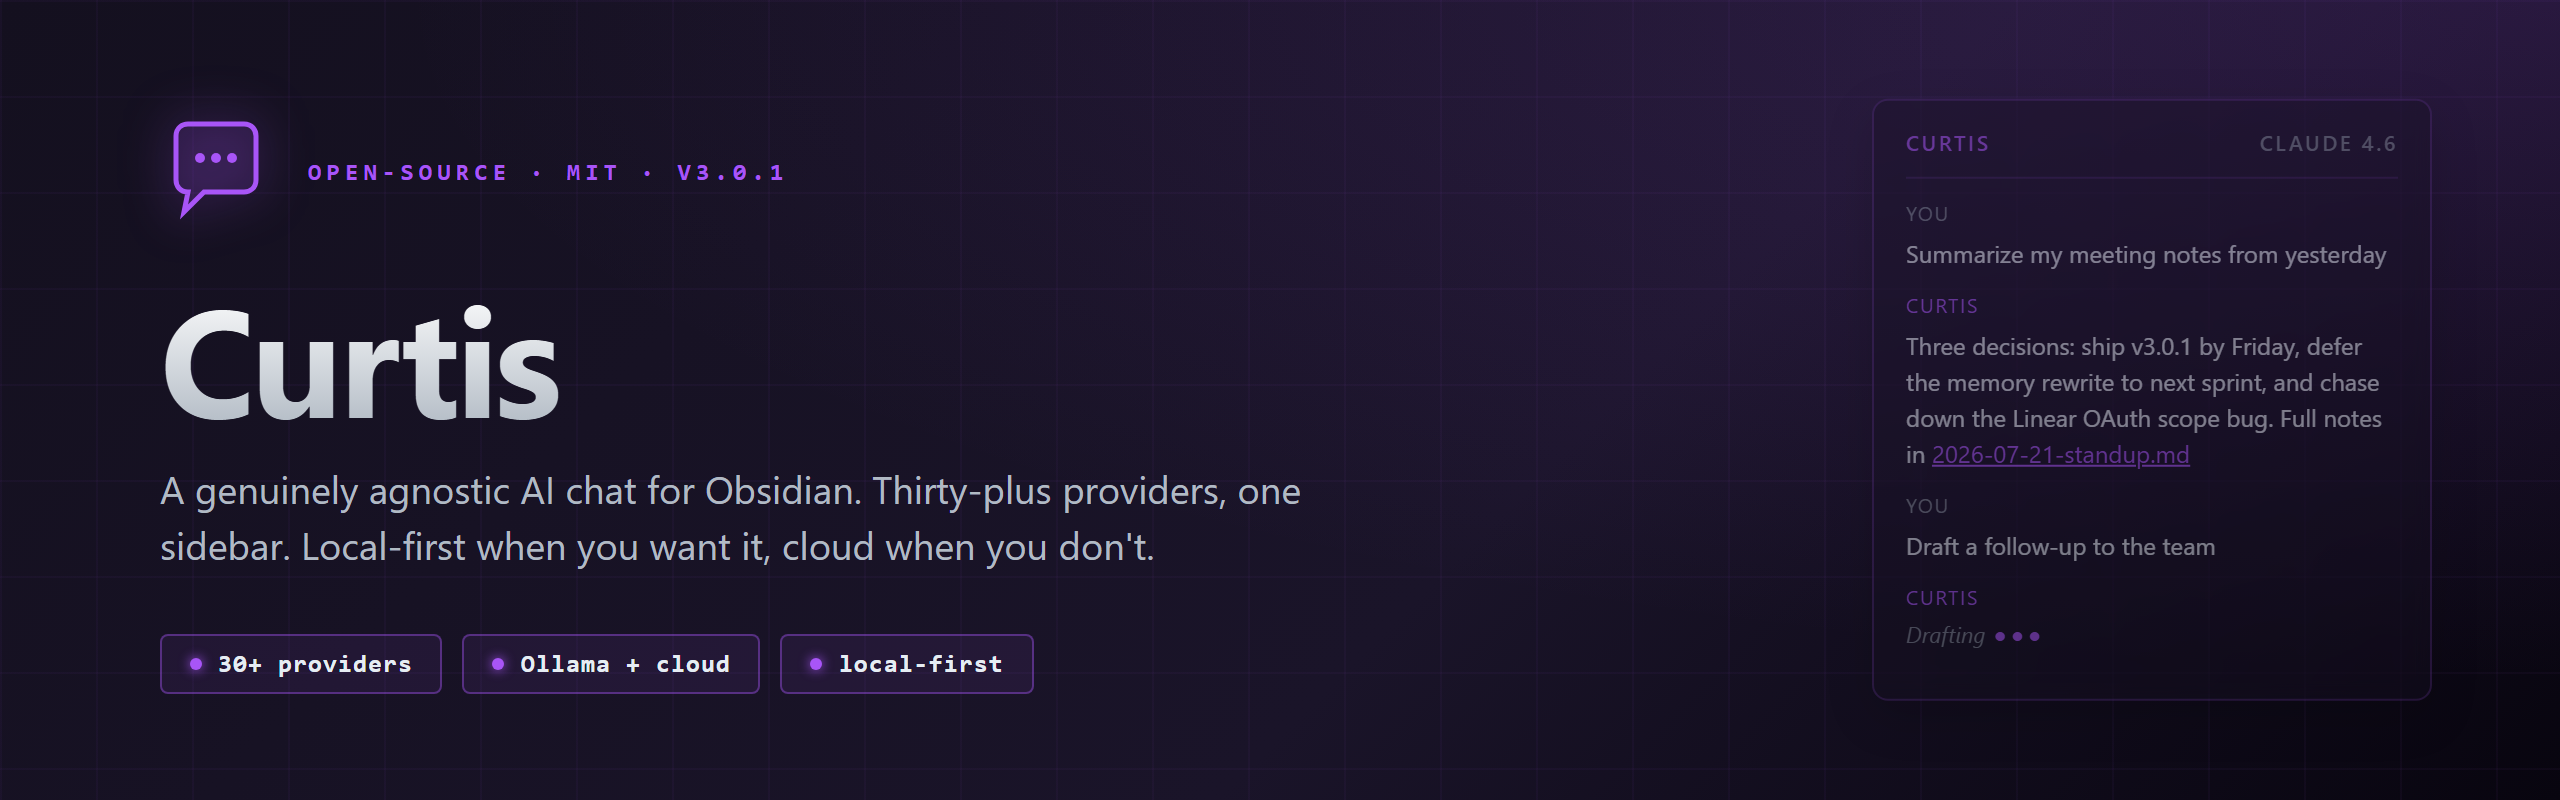
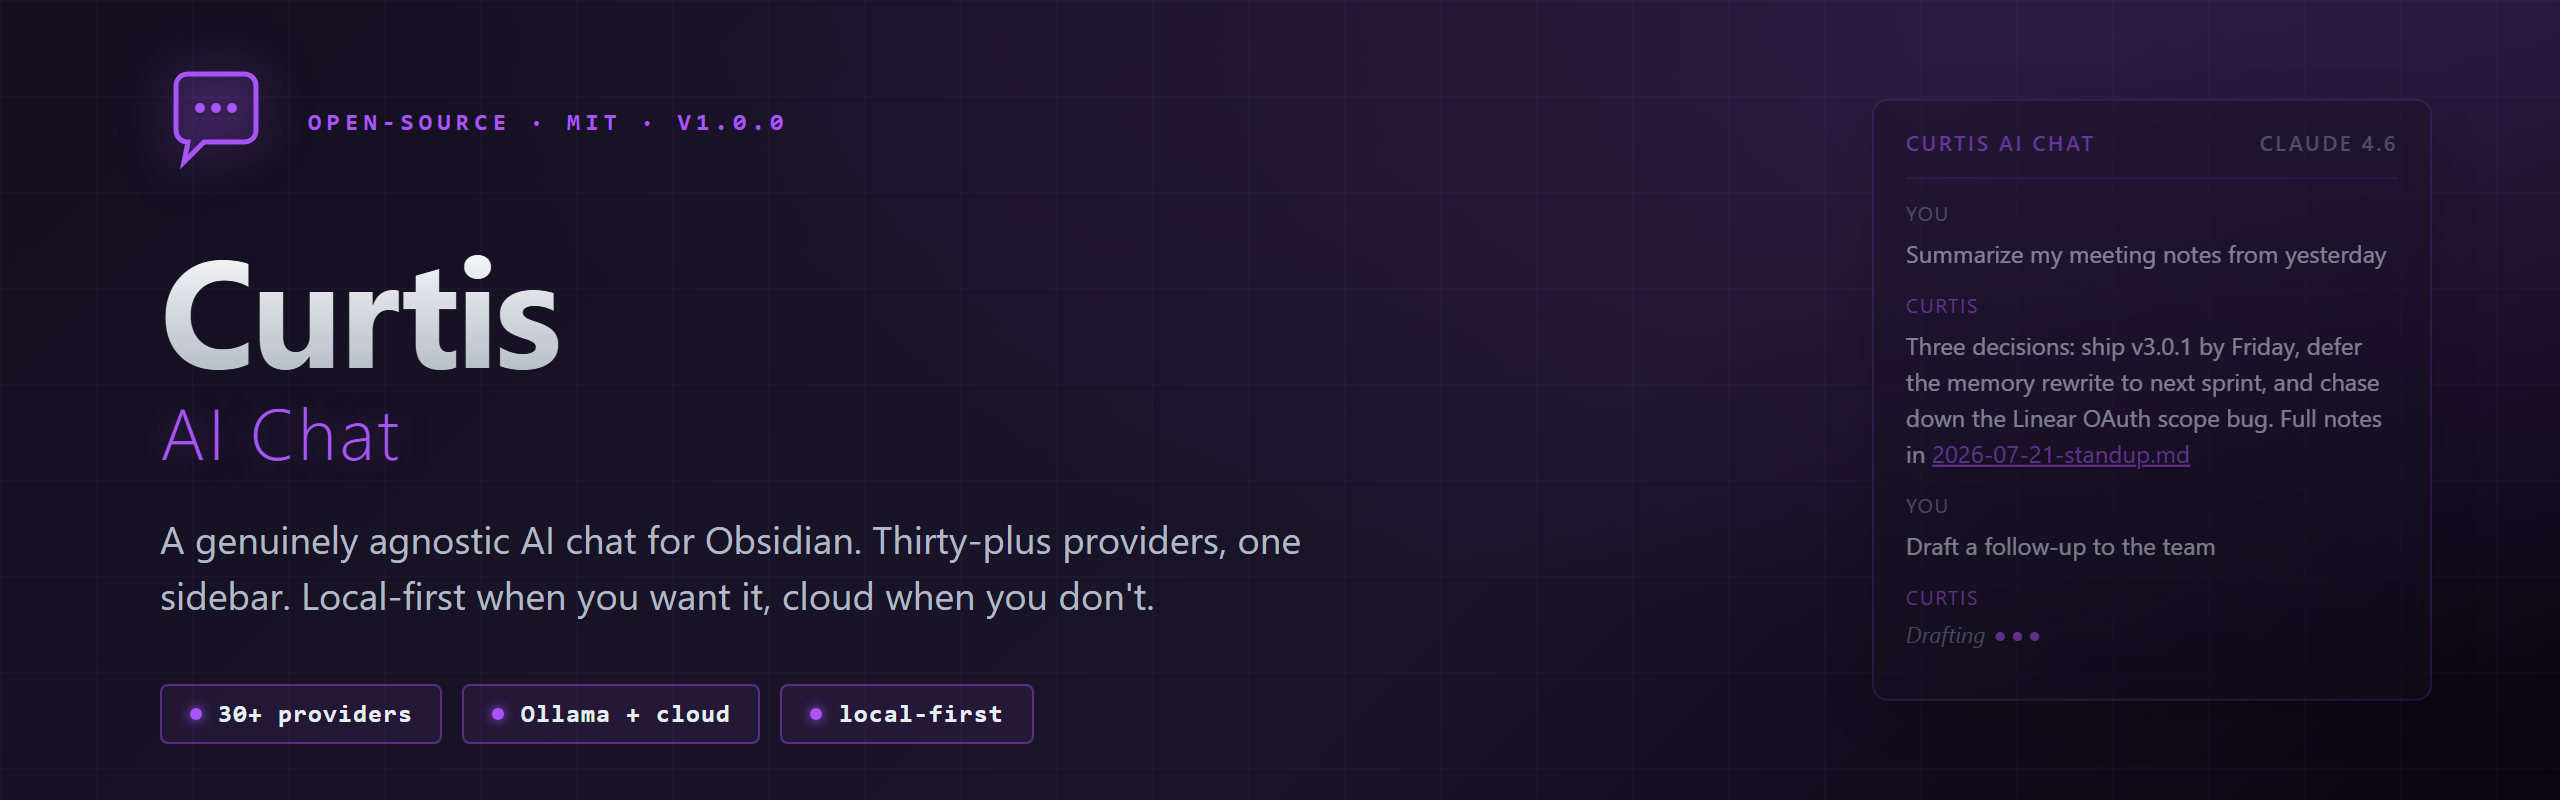
brand(assets): rebrand hero — Curtis / AI Chat stacked wordmark
Update hero graphic from old single-word "Curtis" wordmark to the new
"Curtis AI Chat" identity per v1.0.0 launch.

- h1 "Curtis" stays at 76px (primary brand)
- new .subtitle "AI Chat" below in accent purple (#a855f7), lighter
  weight (300), 36px, with soft glow text-shadow
- eyebrow version: v3.0.1 → v1.0.0
- sidebar mockup header: "Curtis" → "Curtis AI Chat"
- tagline unchanged

Re-rendered via Playwright (per [[svg-render-chrome-not-magick-windows]]).
Also fixed render.mjs at C:/tmp/playwright-render/ to take ASSETS dir
from argv[2] (was hardcoded to temporal-git-vscode, was lying about
success on curtis renders). Added render-hero.mjs for single-target use.

diff --git a/assets/hero.html b/assets/hero.html
@@ -98,11 +98,20 @@
     font-weight: 700;
     letter-spacing: -0.025em;
     line-height: 1;
-    margin-bottom: 14px;
+    margin-bottom: 6px;
     background: linear-gradient(180deg, #ffffff 0%, #b1bac4 100%);
     -webkit-background-clip: text;
     background-clip: text;
     -webkit-text-fill-color: transparent;
+  }
+  .subtitle {
+    font-size: 36px;
+    font-weight: 300;
+    letter-spacing: 0.04em;
+    line-height: 1;
+    margin-bottom: 22px;
+    color: #a855f7;
+    text-shadow: 0 0 18px rgba(168, 85, 247, 0.35);
   }
   .tagline {
     color: #b1bac4;
@@ -141,7 +150,7 @@
 </head>
 <body>
   <div class="sidebar">
-    <div class="sb-head"><span>Curtis</span><span style="color:#7d8590">Claude 4.6</span></div>
+    <div class="sb-head"><span>Curtis AI Chat</span><span style="color:#7d8590">Claude 4.6</span></div>
     <div class="msg">
       <div class="you">You</div>
       <div class="body">Summarize my meeting notes from yesterday</div>
@@ -168,9 +177,10 @@
         <circle cx="28" cy="25" r="2.5" fill="#a855f7"/>
         <circle cx="36" cy="25" r="2.5" fill="#a855f7"/>
       </svg>
-      <div class="eyebrow">Open-source · MIT · v3.0.1</div>
+      <div class="eyebrow">Open-source · MIT · v1.0.0</div>
     </div>
     <h1>Curtis</h1>
+    <div class="subtitle">AI Chat</div>
     <p class="tagline">A genuinely agnostic AI chat for Obsidian. Thirty-plus providers, one sidebar. Local-first when you want it, cloud when you don't.</p>
     <div class="chips">
       <span class="chip">30+ providers</span>